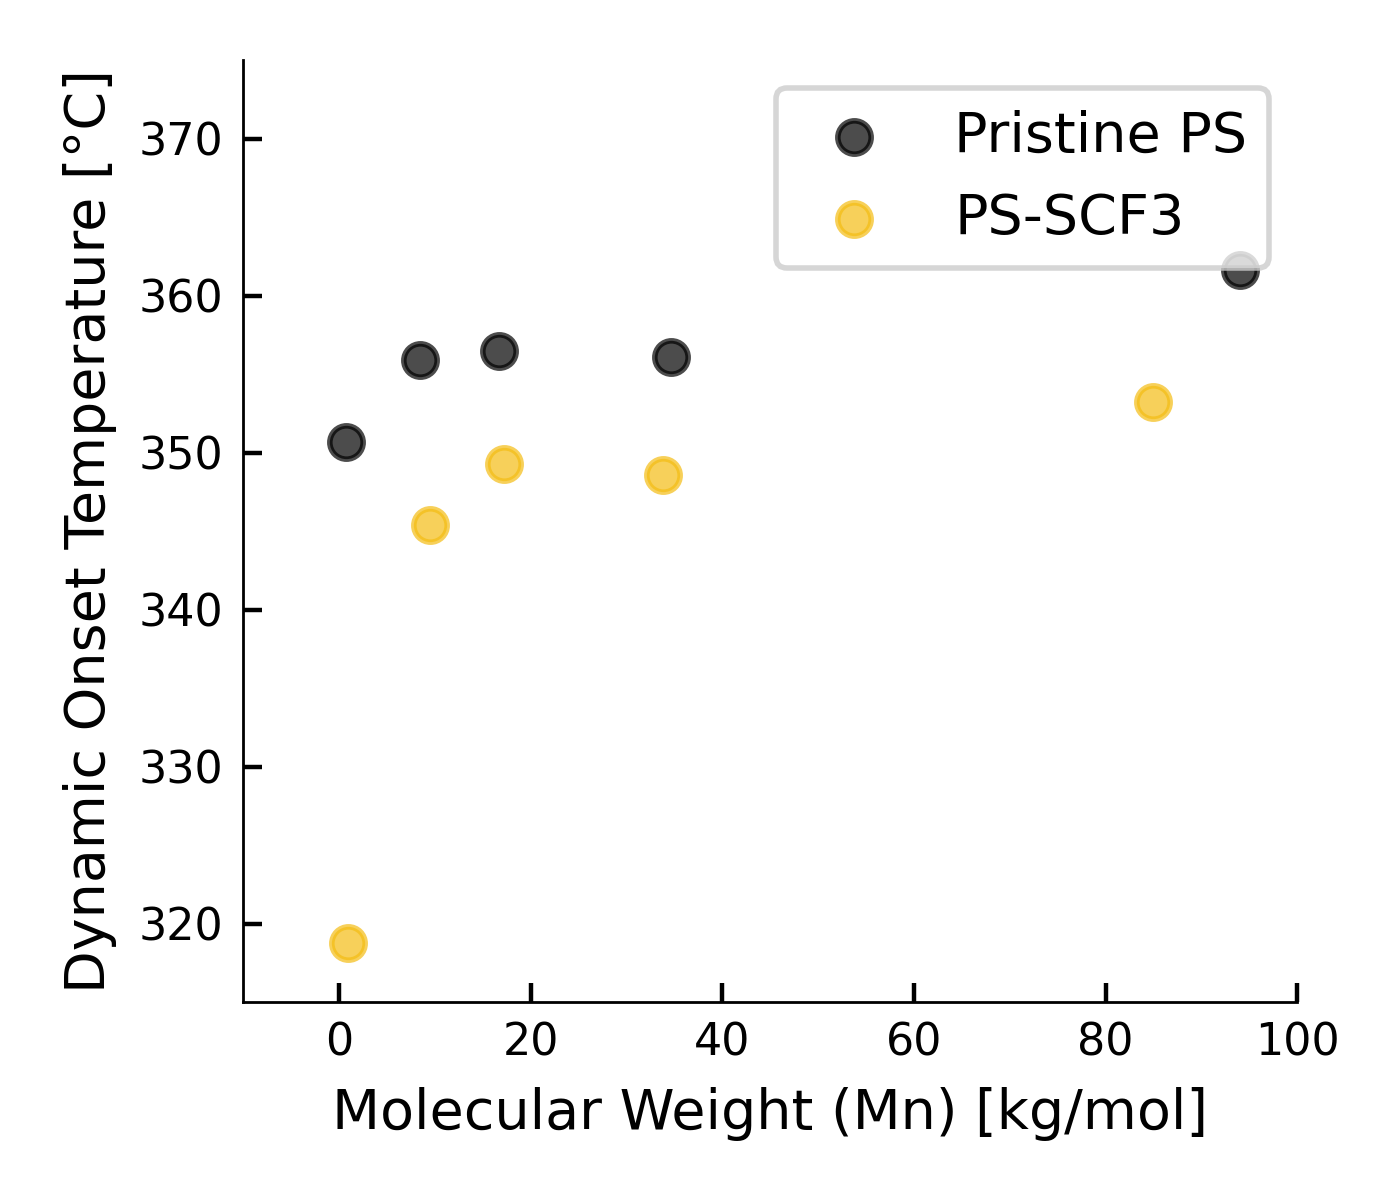
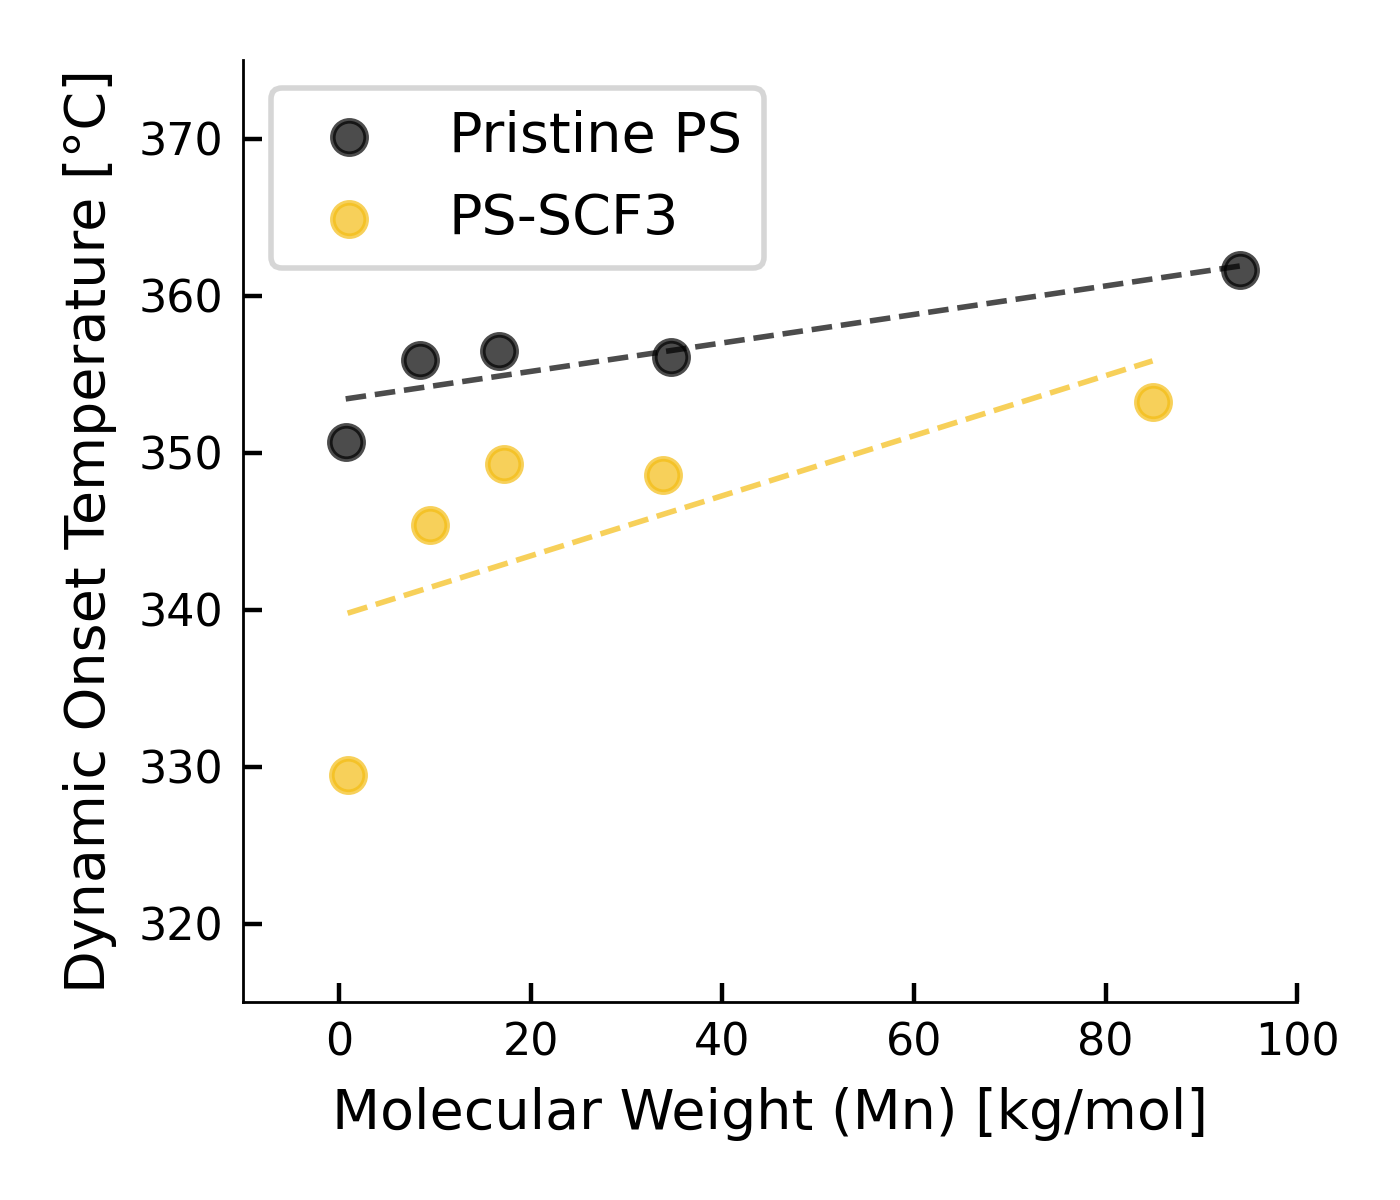
updated line of best fit

diff --git a/code/TGA/tga_plots.py b/code/TGA/tga_plots.py
@@ -571,6 +571,18 @@ class TGAPlots:
             linewidth=1,
         )
 
+        # Plot line of best fit for pristine samples
+        z = np.polyfit(df_pristine_onset["mn"], df_pristine_onset["dynamic_onset_t"], 1)
+        p = np.poly1d(z)
+        ax.plot(
+            df_pristine_onset["mn"],
+            p(df_pristine_onset["mn"]),
+            "--",
+            color="#000000",
+            alpha=0.7,
+            linewidth=1,
+        )
+
         ax.scatter(
             df_func_onset["mn"],
             df_func_onset["dynamic_onset_t"],
@@ -578,6 +590,17 @@ class TGAPlots:
             marker="o",
             alpha=0.7,
             label="PS-SCF3",
+            linewidth=1,
+        )
+        # Plot line of best fit for functionalized samples
+        z = np.polyfit(df_func_onset["mn"], df_func_onset["dynamic_onset_t"], 1)
+        p = np.poly1d(z)
+        ax.plot(
+            df_func_onset["mn"],
+            p(df_func_onset["mn"]),
+            "--",
+            color="#F4BD14",
+            alpha=0.7,
             linewidth=1,
         )
 
@@ -730,6 +753,21 @@ class TGAPlots:
             label="Pristine PS",
             linewidth=1,
         )
+        # Plot line of best fit
+        z = np.polyfit(
+            df_pristine_mass["mn"],
+            df_pristine_mass["isothermal_mass_loss_after_1200mins"],
+            1,
+        )
+        p = np.poly1d(z)
+        ax.plot(
+            df_pristine_mass["mn"],
+            p(df_pristine_mass["mn"]),
+            "--",
+            color="#000000",
+            alpha=0.7,
+            linewidth=1,
+        )
 
         ax.scatter(
             df_func_mass["mn"],
@@ -738,6 +776,19 @@ class TGAPlots:
             marker="o",
             alpha=0.7,
             label="PS-SCF3",
+            linewidth=1,
+        )
+        # Plot line of best fit
+        z = np.polyfit(
+            df_func_mass["mn"], df_func_mass["isothermal_mass_loss_after_1200mins"], 1
+        )
+        p = np.poly1d(z)
+        ax.plot(
+            df_func_mass["mn"],
+            p(df_func_mass["mn"]),
+            "--",
+            color="#F4BD14",
+            alpha=0.7,
             linewidth=1,
         )
 
